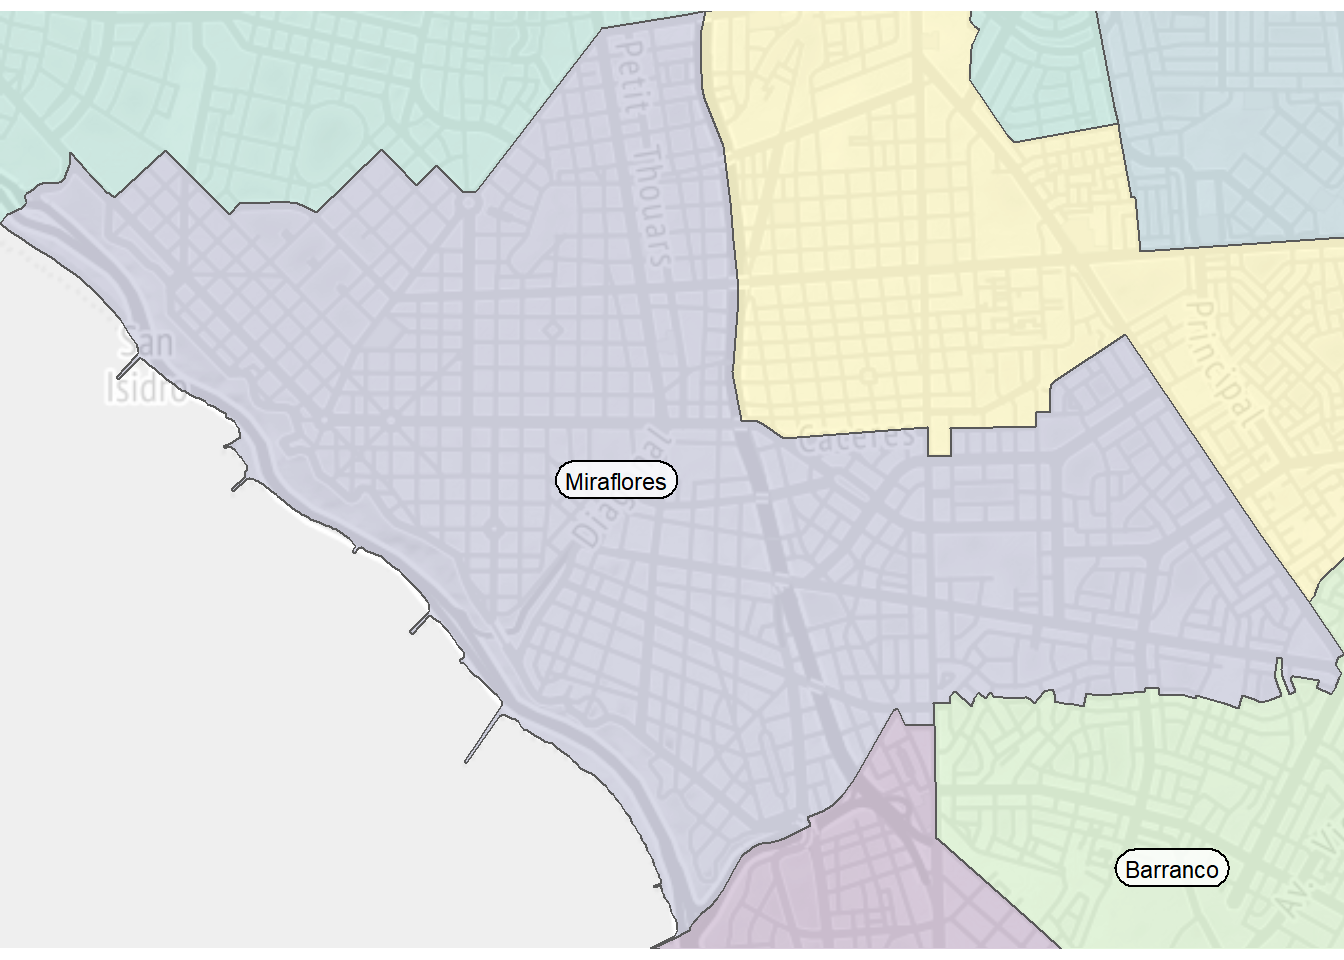
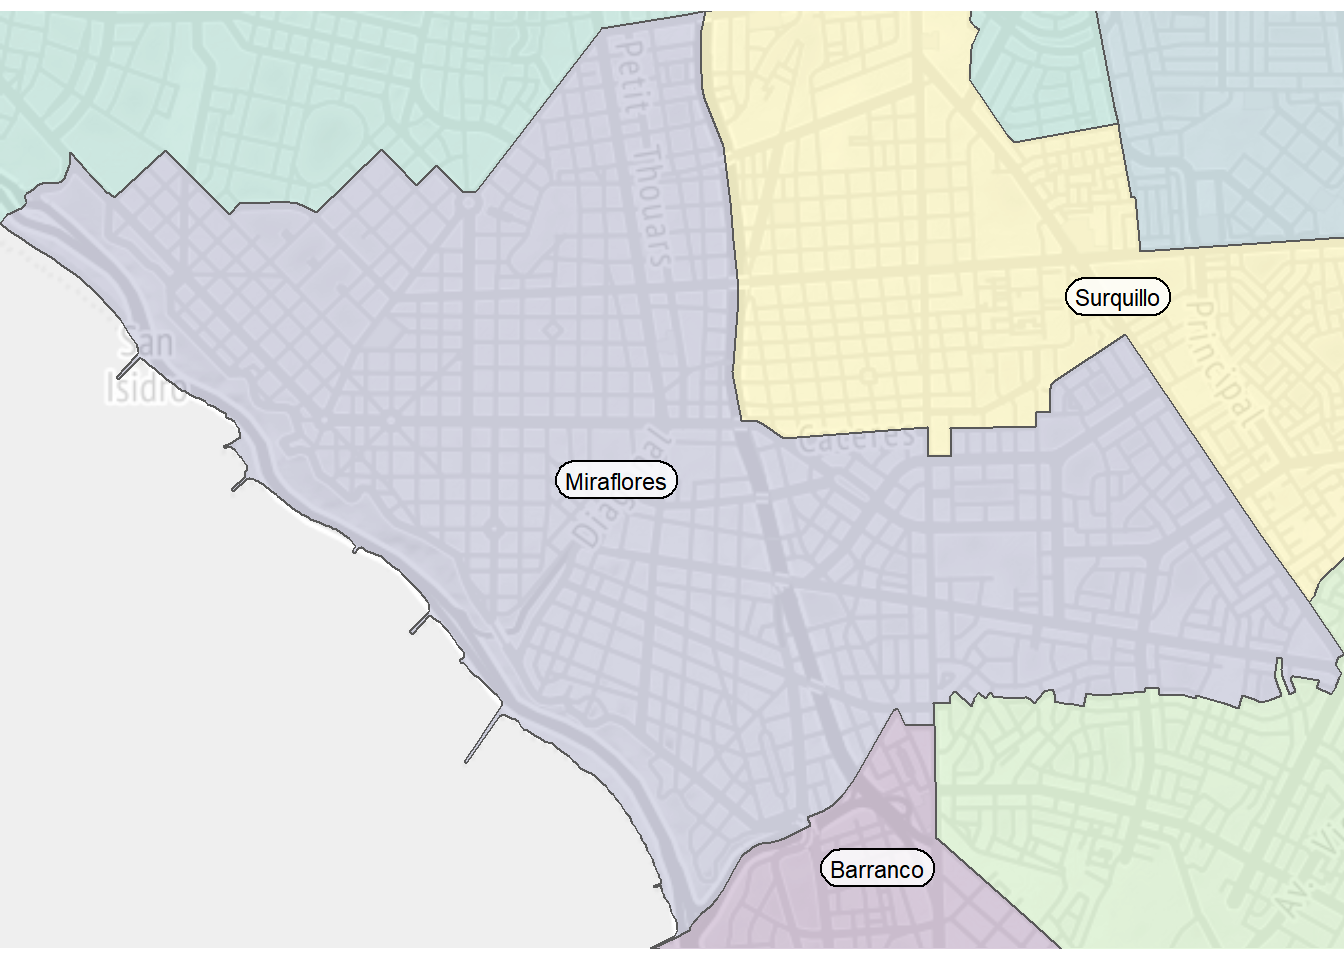
Initial commit

Changed region(s): [[0.8125, 0.875, 0.9375, 0.9375], [0.5938, 0.875, 0.7188, 0.9375], [0.7812, 0.2812, 0.875, 0.3438]]

diff --git a/_site/posts/mapas/index.html b/_site/posts/mapas/index.html
@@ -307,19 +307,19 @@ code span.wa { color: #60a0b0; font-weight: bold; font-style: italic; } /* Warni
 <span id="cb3-34"><a href="#cb3-34" aria-hidden="true" tabindex="-1"></a>    <span class="co">#"Barranco","Miraflores","San Borja","San Isidro",</span></span>
 <span id="cb3-35"><a href="#cb3-35" aria-hidden="true" tabindex="-1"></a>    <span class="co">#"Santiago de Surco","Surquillo" </span></span>
 <span id="cb3-36"><a href="#cb3-36" aria-hidden="true" tabindex="-1"></a>    <span class="at">nudge_x =</span> <span class="fu">c</span>(</span>
-<span id="cb3-37"><a href="#cb3-37" aria-hidden="true" tabindex="-1"></a>      <span class="fl">0.012</span>, <span class="co">#B</span></span>
+<span id="cb3-37"><a href="#cb3-37" aria-hidden="true" tabindex="-1"></a>      <span class="dv">0</span>, <span class="co">#B</span></span>
 <span id="cb3-38"><a href="#cb3-38" aria-hidden="true" tabindex="-1"></a>      <span class="sc">-</span><span class="fl">0.005</span>, <span class="co">#M</span></span>
 <span id="cb3-39"><a href="#cb3-39" aria-hidden="true" tabindex="-1"></a>      <span class="fl">0.01</span>, <span class="co">#SB</span></span>
 <span id="cb3-40"><a href="#cb3-40" aria-hidden="true" tabindex="-1"></a>      <span class="fl">0.01</span>, <span class="co">#SI</span></span>
 <span id="cb3-41"><a href="#cb3-41" aria-hidden="true" tabindex="-1"></a>      <span class="fl">0.01</span>, <span class="co">#SS</span></span>
-<span id="cb3-42"><a href="#cb3-42" aria-hidden="true" tabindex="-1"></a>      <span class="fl">0.01</span>), <span class="co">#S</span></span>
+<span id="cb3-42"><a href="#cb3-42" aria-hidden="true" tabindex="-1"></a>      <span class="dv">0</span>), <span class="co">#S</span></span>
 <span id="cb3-43"><a href="#cb3-43" aria-hidden="true" tabindex="-1"></a>    <span class="at">nudge_y =</span> <span class="fu">c</span>(</span>
 <span id="cb3-44"><a href="#cb3-44" aria-hidden="true" tabindex="-1"></a>      <span class="fl">0.007</span>, <span class="co">#B</span></span>
 <span id="cb3-45"><a href="#cb3-45" aria-hidden="true" tabindex="-1"></a>      <span class="dv">0</span>, <span class="co">#M</span></span>
 <span id="cb3-46"><a href="#cb3-46" aria-hidden="true" tabindex="-1"></a>      <span class="fl">0.01</span>, <span class="co">#SB</span></span>
 <span id="cb3-47"><a href="#cb3-47" aria-hidden="true" tabindex="-1"></a>      <span class="sc">-</span><span class="fl">0.001</span>, <span class="co">#SI</span></span>
 <span id="cb3-48"><a href="#cb3-48" aria-hidden="true" tabindex="-1"></a>      <span class="fl">0.01</span>, <span class="co">#SS</span></span>
-<span id="cb3-49"><a href="#cb3-49" aria-hidden="true" tabindex="-1"></a>      <span class="fl">0.01</span>), <span class="co">#S</span></span>
+<span id="cb3-49"><a href="#cb3-49" aria-hidden="true" tabindex="-1"></a>      <span class="dv">0</span>), <span class="co">#S</span></span>
 <span id="cb3-50"><a href="#cb3-50" aria-hidden="true" tabindex="-1"></a>    <span class="at">inherit.aes =</span> <span class="cn">FALSE</span>,</span>
 <span id="cb3-51"><a href="#cb3-51" aria-hidden="true" tabindex="-1"></a>    <span class="at">size =</span> <span class="dv">3</span>, </span>
 <span id="cb3-52"><a href="#cb3-52" aria-hidden="true" tabindex="-1"></a>    <span class="at">alpha =</span> <span class="fl">0.8</span>,</span>
@@ -619,19 +619,19 @@ window.document.addEventListener("DOMContentLoaded", function (event) {
 <span id="cb5-92"><a href="#cb5-92" aria-hidden="true" tabindex="-1"></a>    <span class="co">#"Barranco","Miraflores","San Borja","San Isidro",</span></span>
 <span id="cb5-93"><a href="#cb5-93" aria-hidden="true" tabindex="-1"></a>    <span class="co">#"Santiago de Surco","Surquillo" </span></span>
 <span id="cb5-94"><a href="#cb5-94" aria-hidden="true" tabindex="-1"></a>    <span class="at">nudge_x =</span> <span class="fu">c</span>(</span>
-<span id="cb5-95"><a href="#cb5-95" aria-hidden="true" tabindex="-1"></a>      <span class="fl">0.012</span>, <span class="co">#B</span></span>
+<span id="cb5-95"><a href="#cb5-95" aria-hidden="true" tabindex="-1"></a>      <span class="dv">0</span>, <span class="co">#B</span></span>
 <span id="cb5-96"><a href="#cb5-96" aria-hidden="true" tabindex="-1"></a>      <span class="sc">-</span><span class="fl">0.005</span>, <span class="co">#M</span></span>
 <span id="cb5-97"><a href="#cb5-97" aria-hidden="true" tabindex="-1"></a>      <span class="fl">0.01</span>, <span class="co">#SB</span></span>
 <span id="cb5-98"><a href="#cb5-98" aria-hidden="true" tabindex="-1"></a>      <span class="fl">0.01</span>, <span class="co">#SI</span></span>
 <span id="cb5-99"><a href="#cb5-99" aria-hidden="true" tabindex="-1"></a>      <span class="fl">0.01</span>, <span class="co">#SS</span></span>
-<span id="cb5-100"><a href="#cb5-100" aria-hidden="true" tabindex="-1"></a>      <span class="fl">0.01</span>), <span class="co">#S</span></span>
+<span id="cb5-100"><a href="#cb5-100" aria-hidden="true" tabindex="-1"></a>      <span class="dv">0</span>), <span class="co">#S</span></span>
 <span id="cb5-101"><a href="#cb5-101" aria-hidden="true" tabindex="-1"></a>    <span class="at">nudge_y =</span> <span class="fu">c</span>(</span>
 <span id="cb5-102"><a href="#cb5-102" aria-hidden="true" tabindex="-1"></a>      <span class="fl">0.007</span>, <span class="co">#B</span></span>
 <span id="cb5-103"><a href="#cb5-103" aria-hidden="true" tabindex="-1"></a>      <span class="dv">0</span>, <span class="co">#M</span></span>
 <span id="cb5-104"><a href="#cb5-104" aria-hidden="true" tabindex="-1"></a>      <span class="fl">0.01</span>, <span class="co">#SB</span></span>
 <span id="cb5-105"><a href="#cb5-105" aria-hidden="true" tabindex="-1"></a>      <span class="sc">-</span><span class="fl">0.001</span>, <span class="co">#SI</span></span>
 <span id="cb5-106"><a href="#cb5-106" aria-hidden="true" tabindex="-1"></a>      <span class="fl">0.01</span>, <span class="co">#SS</span></span>
-<span id="cb5-107"><a href="#cb5-107" aria-hidden="true" tabindex="-1"></a>      <span class="fl">0.01</span>), <span class="co">#S</span></span>
+<span id="cb5-107"><a href="#cb5-107" aria-hidden="true" tabindex="-1"></a>      <span class="dv">0</span>), <span class="co">#S</span></span>
 <span id="cb5-108"><a href="#cb5-108" aria-hidden="true" tabindex="-1"></a>    <span class="at">inherit.aes =</span> <span class="cn">FALSE</span>,</span>
 <span id="cb5-109"><a href="#cb5-109" aria-hidden="true" tabindex="-1"></a>    <span class="at">size =</span> <span class="dv">3</span>, </span>
 <span id="cb5-110"><a href="#cb5-110" aria-hidden="true" tabindex="-1"></a>    <span class="at">alpha =</span> <span class="fl">0.8</span>,</span>

diff --git a/_site/index.html b/_site/index.html
@@ -165,7 +165,7 @@ ul.task-list{list-style: none;}
 
 <div class="quarto-listing quarto-listing-container-default" id="listing-listing">
 <div class="list quarto-listing-default">
-<div class="quarto-post image-right" data-index="0" data-categories="mapas" data-listing-date-sort="1653195600000" data-listing-file-modified-sort="1653347488457" data-listing-reading-time-sort="5.035">
+<div class="quarto-post image-right" data-index="0" data-categories="mapas" data-listing-date-sort="1653195600000" data-listing-file-modified-sort="1653348490683" data-listing-reading-time-sort="5.035">
 <div class="thumbnail">
 <p><a href="./posts/mapas/index.html"> <img src="./posts/mapas/image.jpg" class="thumnail-image"> </a></p>
 </div>
